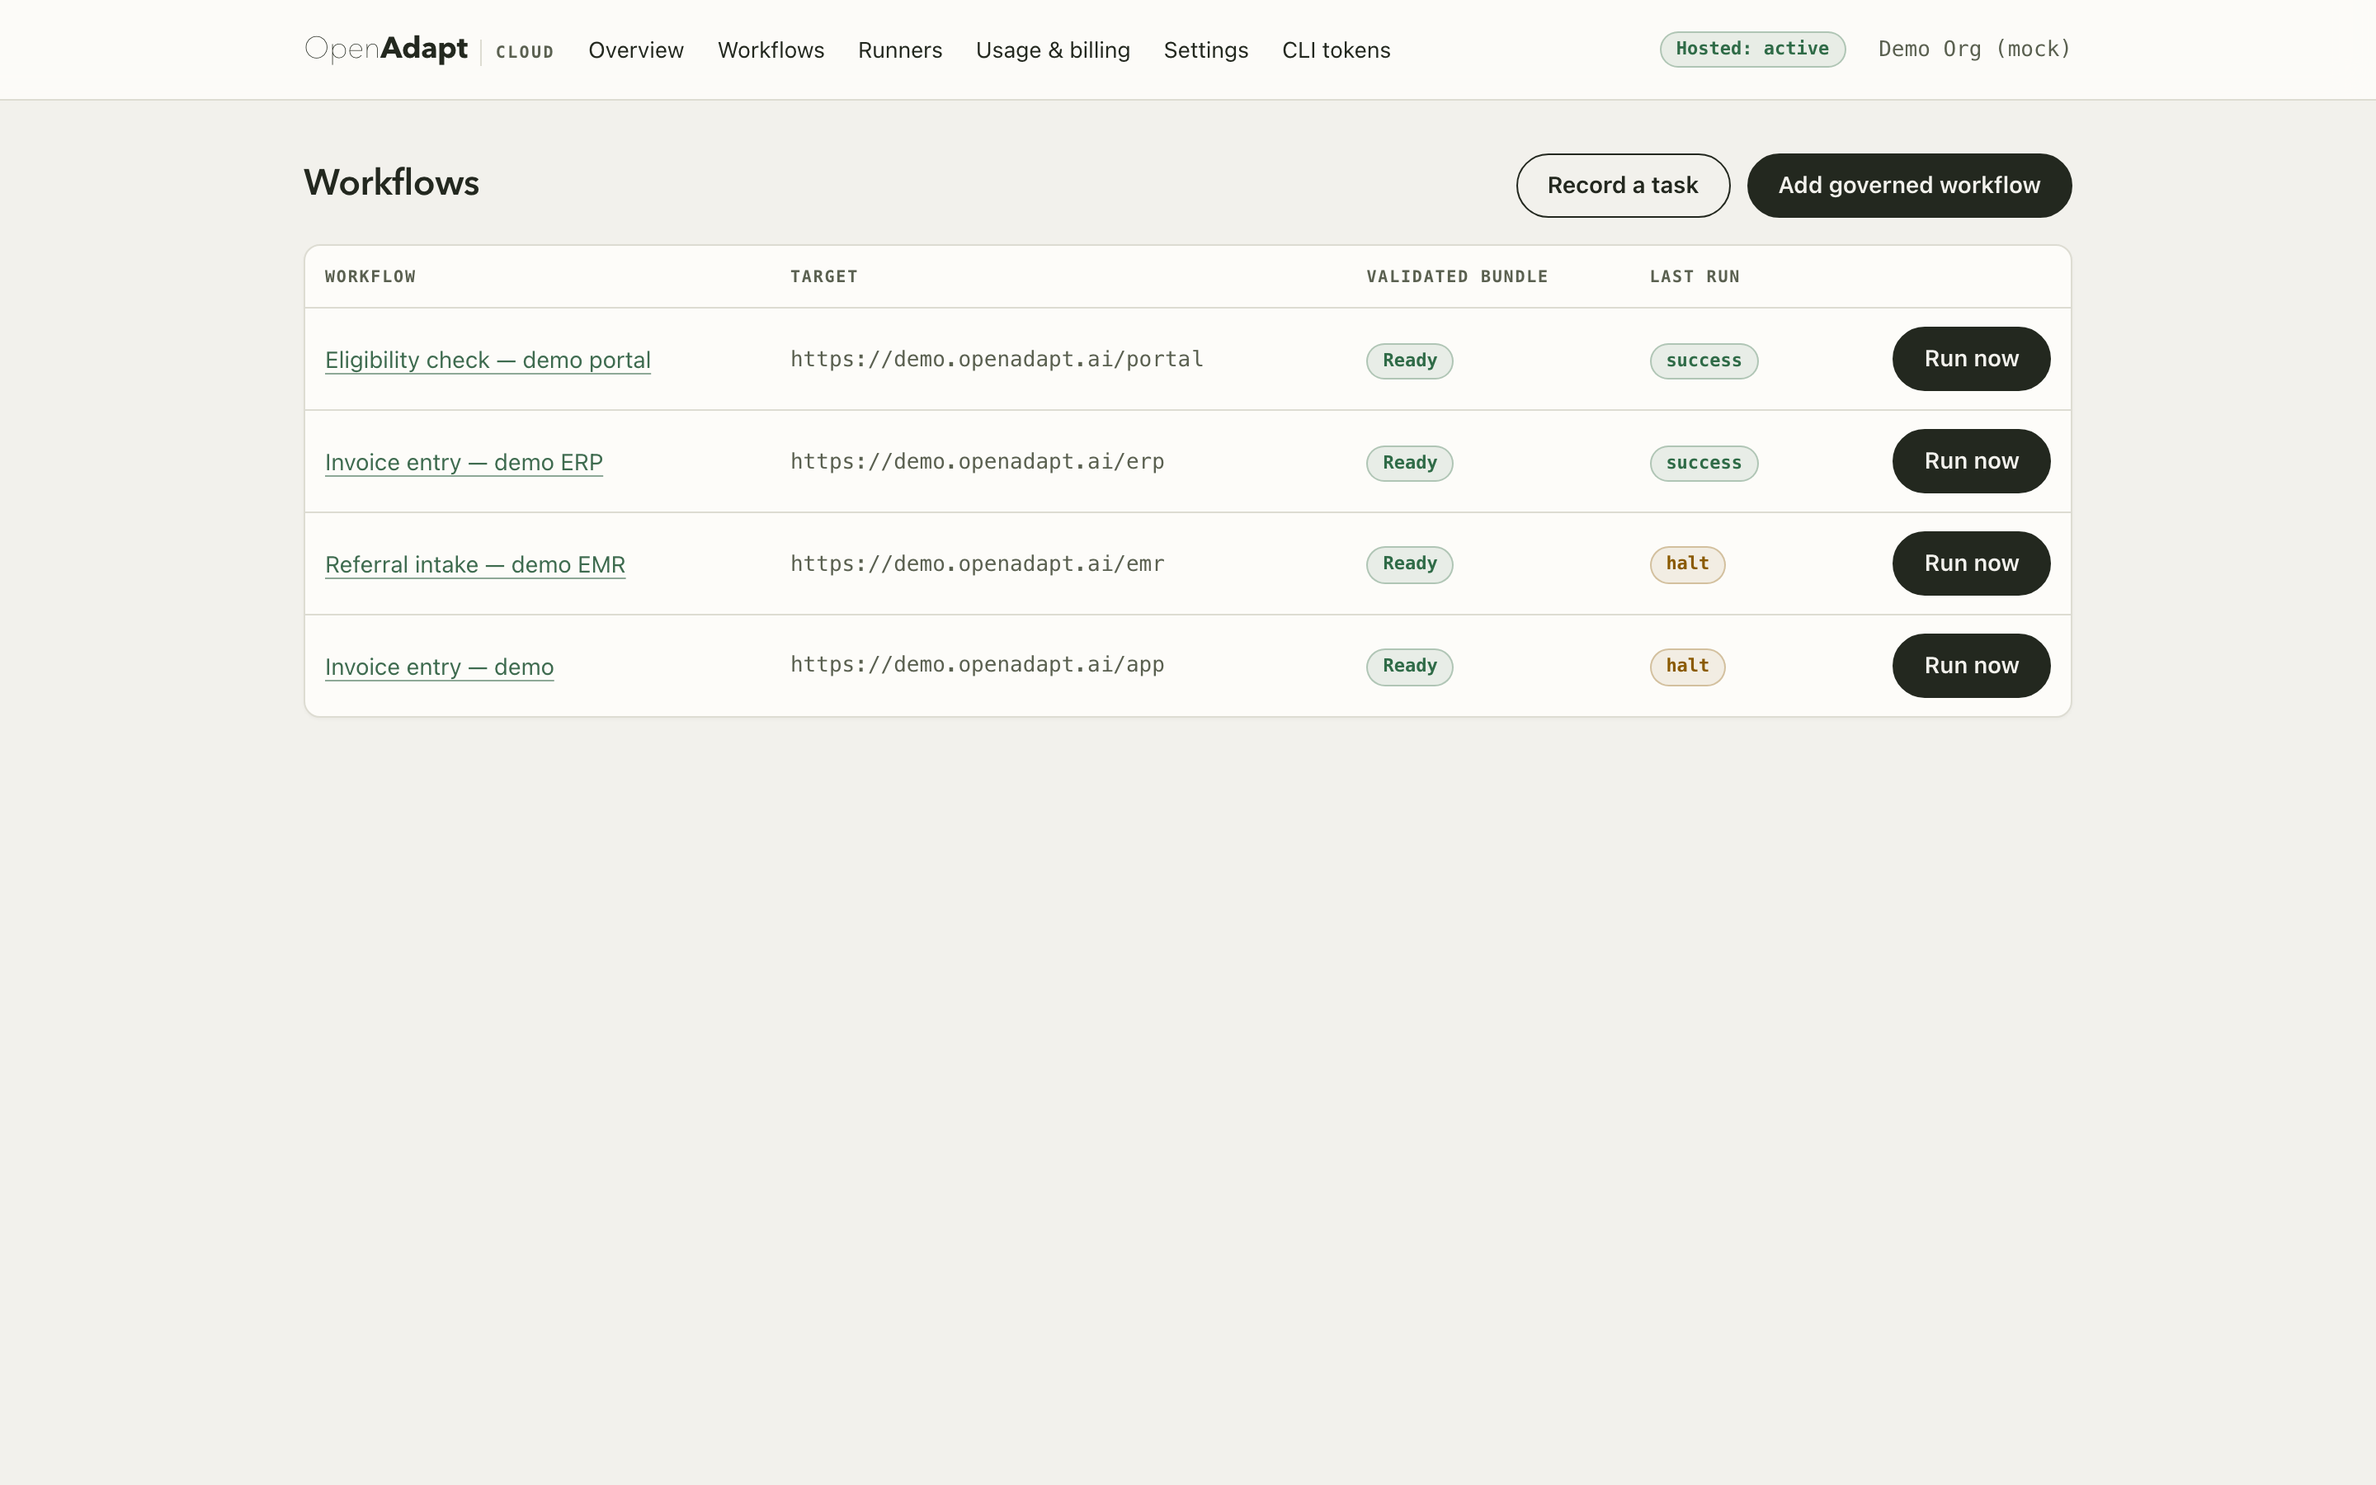
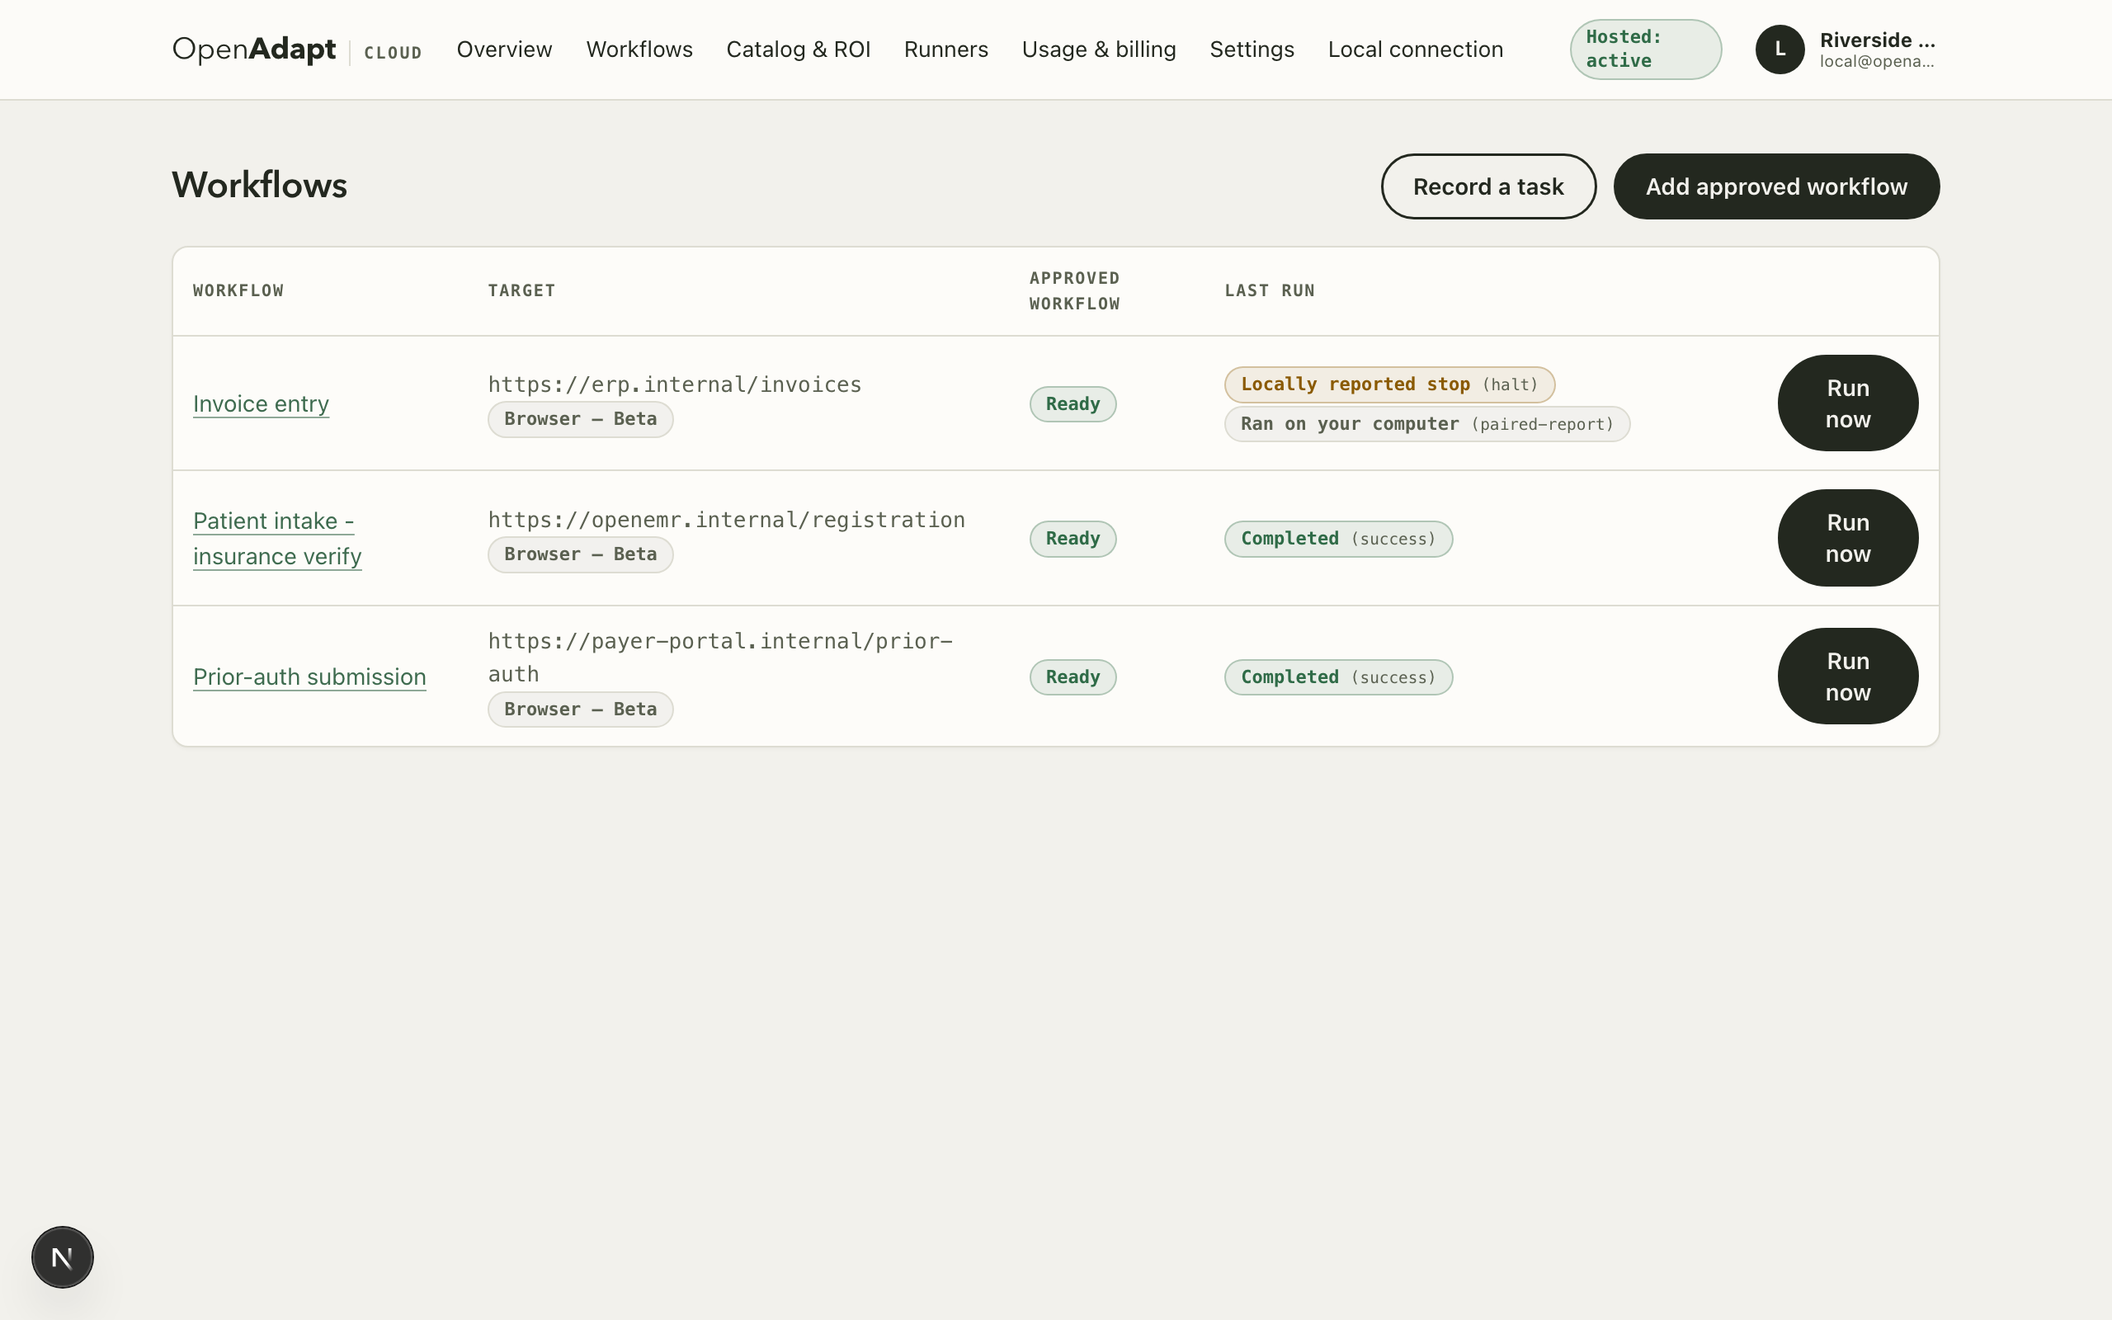
fix(cloud-showcase): consistent full-page captures with vertical auto-pan
Make the OpenAdapt Cloud showcase carousel read as one coherent product
across all five frames, and reveal the whole of each page rather than a
top crop.

- Recapture the program visualizer inside the same app shell (top nav +
  Hosted pill + workspace) as the other slides, at 2560px wide / device
  scale 2, so it no longer looks captured out-of-shell. Recapture the
  dashboard, run detail, halt evidence, and workflow catalog the same way
  so all five share one look and scale.
- Seed production-plausible workflow names (Invoice entry, Patient intake
  - insurance verify, Prior-auth submission) and suppress the LOCAL MOCK
  MODE developer banner in the marketing captures. No demo labels; the
  honest "Real OpenAdapt Cloud interface" caption stays.
- Add a slow top-to-bottom vertical auto-pan (Web Animations API) over
  each frame's dwell so the visitor sees the full page, pausing in
  lockstep with the rotation on hover/focus. Under prefers-reduced-motion
  the pan is dropped and the stage becomes a scroll viewport showing each
  frame at natural height. overflow-x stays clipped so wide captures never
  push the page sideways on mobile.
- Update provenance.json and MANIFEST.json to describe the full-page
  captures and the suppressed dev chrome, and update the guard test to the
  new dashboard dimensions.

Claude-Session: https://claude.ai/code/session_01NyCHrzA1psrKMFfroYbzaM

diff --git a/components/DashboardShowcase.js b/components/DashboardShowcase.js
@@ -1,28 +1,31 @@
-import { useEffect, useState } from 'react'
+import { useEffect, useRef, useState } from 'react'
 import styles from './DashboardShowcase.module.css'
 
 // Real screenshots of the shipping OpenAdapt Cloud product (openadapt-cloud),
 // captured from the actual dashboard UI. This is a rotating showcase: the large
 // slot cycles through the real product frames (dashboard, run detail, halt
 // evidence, program visualizer, workflow catalog) so each gets time on screen
-// big enough to read. Every frame is the real interface running in its local
-// mock-data mode with synthetic records (see /product-preview/MANIFEST.json and
-// /cloud-preview/provenance.json). Nothing here is a hand-drawn or synthetic
-// mockup of an app that does not exist.
+// big enough to read. Every frame is a full-height capture of the real
+// interface (see /product-preview/MANIFEST.json and /cloud-preview/provenance.json).
+// Nothing here is a hand-drawn or synthetic mockup of an app that does not exist.
+//
+// The captures are full pages, not top crops, and the large stage reveals each
+// one with a slow top-to-bottom vertical auto-pan over its dwell so the visitor
+// sees the WHOLE page rather than just the first screenful. Under reduced motion
+// the pan is dropped and the whole frame is shown at once (see the module CSS),
+// so nothing depends on movement to be legible.
 //
 // Order matters: the dashboard is first so it is the default (and SSR / no-JS)
 // frame, which is why the browser address bar reads app.openadapt.ai/dashboard
-// before any rotation. Aspect ratios differ a lot (the dashboard is wide, the
-// program graph and catalog are very tall), so each slide carries an explicit
-// object-position; the tall captures are top-anchored so their meaningful top
-// content renders big.
+// before any rotation. Every capture is 2560px wide at the same device scale, so
+// the five frames share one product look; their heights differ because each real
+// page is a different length.
 const SLIDES = [
     {
         key: 'dashboard',
         src: '/product-preview/dashboard-workflows.png',
-        width: 2880,
-        height: 1800,
-        focus: '50% 0%',
+        width: 2560,
+        height: 1600,
         address: 'app.openadapt.ai/dashboard',
         label: 'Dashboard',
         caption:
@@ -33,34 +36,29 @@ const SLIDES = [
         key: 'run',
         src: '/cloud-preview/healthcare-run.jpg',
         width: 2560,
-        height: 1600,
-        focus: '50% 0%',
+        height: 4620,
         address: 'app.openadapt.ai/runs',
         label: 'Run detail',
         caption:
             'Step timeline and independently verified effects for a completed run.',
-        alt: 'OpenAdapt Cloud run detail: step metrics and the timeline with verified effects for a completed synthetic OpenEMR run.',
+        alt: 'OpenAdapt Cloud run detail: run metrics, the verified-effect timeline, and the full machine-readable run report.',
     },
     {
         key: 'evidence',
         src: '/cloud-preview/healthcare-evidence.jpg',
         width: 2560,
-        height: 1600,
-        focus: '50% 0%',
+        height: 6594,
         address: 'app.openadapt.ai/runs/evidence',
         label: 'Halt evidence',
         caption:
             'The locally reported stop, resolver metrics, and the governed repair page.',
-        alt: 'OpenAdapt Cloud halt evidence: the locally reported stop, resolver metrics, and the governed repair page for a synthetic OpenEMR workflow.',
+        alt: 'OpenAdapt Cloud halt evidence: the locally reported stop, resolver metrics, and the governed repair page.',
     },
     {
         key: 'program',
         src: '/cloud-preview/program-graph.png',
-        width: 1800,
-        height: 5096,
-        // Tall full-page capture. Nudge past the empty grey app-chrome band at
-        // the very top so the compiled-program header and stats fill the frame.
-        focus: '50% 8%',
+        width: 2560,
+        height: 3882,
         address: 'app.openadapt.ai/workflows/program',
         label: 'Program visualizer',
         caption:
@@ -70,20 +68,20 @@ const SLIDES = [
     {
         key: 'catalog',
         src: '/cloud-preview/workflow-catalog.png',
-        width: 1280,
-        height: 2200,
-        // Tall full-page capture: top-anchored so the portfolio and ROI readout
-        // lead the frame.
-        focus: '50% 0%',
+        width: 2560,
+        height: 4290,
         address: 'app.openadapt.ai/workflows',
         label: 'Workflow catalog',
         caption:
-            'Approved workflows and their compiled bundle versions in one catalog.',
-        alt: 'OpenAdapt Cloud workflow catalog: approved workflows and their compiled bundle versions.',
+            'Approved workflows, their ROI readout, and a step-level halt map in one catalog.',
+        alt: 'OpenAdapt Cloud workflow catalog: approved workflows, their ROI readout, and a step-level halt map.',
     },
 ]
 
-const ROTATE_MS = 4600
+// One dwell per frame. The vertical auto-pan runs slightly shorter so it settles
+// at the bottom of the page before the rotation advances to the next frame.
+const ROTATE_MS = 6200
+const PAN_MS = 5600
 
 export default function DashboardShowcase() {
     const [active, setActive] = useState(0)
@@ -111,6 +109,71 @@ export default function DashboardShowcase() {
         setActive(index)
         setCycle((value) => value + 1)
     }
+
+    // Vertical auto-pan of the active full-height capture. The stage is a fixed
+    // aspect-ratio viewport; the capture is taller, so we translate it upward
+    // from its top edge to its bottom edge across the dwell (a slow downward
+    // reveal). We use the Web Animations API because the pan distance depends on
+    // the rendered image height, which is responsive and known only at runtime.
+    const slideRefs = useRef([])
+    const stageRef = useRef(null)
+    const panRef = useRef(null)
+    const pausedRef = useRef(paused)
+    pausedRef.current = paused
+
+    useEffect(() => {
+        const img = slideRefs.current[active]
+        const stage = stageRef.current
+        if (!img || !stage) return undefined
+        // Respect reduced motion: no auto-pan. The module CSS instead fits the
+        // whole capture into the stage so the entire page stays visible.
+        if (
+            typeof window !== 'undefined' &&
+            window.matchMedia &&
+            window.matchMedia('(prefers-reduced-motion: reduce)').matches
+        ) {
+            return undefined
+        }
+        let cancelled = false
+        const start = () => {
+            if (cancelled) return
+            const shift =
+                img.getBoundingClientRect().height -
+                stage.getBoundingClientRect().height
+            // Short captures (already fully visible) do not need a pan.
+            if (shift <= 4) return
+            const anim = img.animate(
+                [
+                    { transform: 'translateY(0)' },
+                    { transform: `translateY(${-shift}px)` },
+                ],
+                { duration: PAN_MS, easing: 'linear', fill: 'forwards' }
+            )
+            panRef.current = anim
+            if (pausedRef.current) anim.pause()
+        }
+        if (img.complete && img.naturalWidth) start()
+        else img.addEventListener('load', start, { once: true })
+        return () => {
+            cancelled = true
+            img.removeEventListener('load', start)
+            if (panRef.current) {
+                panRef.current.cancel()
+                panRef.current = null
+            }
+            img.style.transform = ''
+        }
+    }, [active, cycle])
+
+    // Pause and resume the pan in lockstep with the rotation timer (hover/focus)
+    // without restarting it, so a visitor reading a frame keeps their position.
+    useEffect(() => {
+        const anim = panRef.current
+        if (!anim) return undefined
+        if (paused) anim.pause()
+        else anim.play()
+        return undefined
+    }, [paused])
 
     const activeSlide = SLIDES[active]
 
@@ -158,14 +221,23 @@ export default function DashboardShowcase() {
                                 {activeSlide.address}
                             </span>
                         </div>
+                        {/* Fixed aspect-ratio viewport. Each full-height capture
+                            is taller than the viewport; the active one pans
+                            top-to-bottom over its dwell. Under reduced motion the
+                            viewport becomes scrollable and the capture is fit so
+                            the whole page is reachable without any movement. */}
                         <div
                             className={styles.stage}
                             id="cloud-stage"
                             data-testid="dashboard-stage"
+                            ref={stageRef}
                         >
                             {SLIDES.map((slide, index) => (
                                 <img
                                     key={slide.key}
+                                    ref={(node) => {
+                                        slideRefs.current[index] = node
+                                    }}
                                     className={styles.slide}
                                     src={slide.src}
                                     width={slide.width}
@@ -181,7 +253,6 @@ export default function DashboardShowcase() {
                                     }
                                     style={{
                                         opacity: index === active ? 1 : 0,
-                                        objectPosition: slide.focus,
                                     }}
                                 />
                             ))}
@@ -229,7 +300,6 @@ export default function DashboardShowcase() {
                                         loading="lazy"
                                         decoding="async"
                                         aria-hidden="true"
-                                        style={{ objectPosition: slide.focus }}
                                     />
                                     {index === active && (
                                         <span

diff --git a/components/DashboardShowcase.module.css b/components/DashboardShowcase.module.css
@@ -98,26 +98,29 @@
     white-space: nowrap;
 }
 
-/* Fixed-height stage: a single aspect-ratio slot that every slide fills, so
-   there is no layout jump between frames of different aspect ratios. Slides are
-   stacked and crossfaded. */
+/* Fixed aspect-ratio viewport. Every capture is a full-height page taller than
+   this slot; the active one is panned top-to-bottom over its dwell so the whole
+   page is revealed. Slides are stacked and crossfaded. overflow-x is always
+   clipped so a wide capture never pushes the page sideways on mobile. */
 .stage {
     position: relative;
     width: 100%;
     aspect-ratio: 16 / 9;
+    overflow: hidden;
     background: var(--ground);
 }
 
 .slide {
     position: absolute;
-    inset: 0;
+    top: 0;
+    left: 0;
     display: block;
     width: 100%;
-    height: 100%;
-    object-fit: cover;
-    /* object-position is set per slide inline (tall captures are top-anchored).
-       Default top so wide captures keep their nav and header in frame. */
-    object-position: top;
+    /* Natural height (the full page) so the auto-pan has somewhere to travel.
+       The active slide is translated upward in JS via the Web Animations API. */
+    height: auto;
+    transform-origin: top center;
+    will-change: transform;
     transition: opacity 700ms ease;
 }
 
@@ -343,11 +346,31 @@
     }
 }
 
-/* Respect reduced motion for the crossfade transition only. The rotation itself
-   is intentionally kept (see DashboardShowcase.js) so the section is never
-   static; here we simply make the frame swap instant rather than animated. */
+/* Respect reduced motion. The rotation itself is intentionally kept (see
+   DashboardShowcase.js) so the section is never static, but the crossfade is made
+   instant and the vertical auto-pan is dropped. So the visitor can still see the
+   WHOLE page of each frame without any movement, the stage becomes a normal
+   scroll viewport showing the active frame at its natural height: the active
+   capture is laid out in flow (so the stage scrolls exactly its height, with no
+   dead space) and the JS pan is suppressed by the same media query in the
+   component. */
 @media (prefers-reduced-motion: reduce) {
     .slide {
         transition-duration: 1ms;
+    }
+
+    .stage {
+        overflow-y: auto;
+        overflow-x: hidden;
+        -webkit-overflow-scrolling: touch;
+    }
+
+    .slide {
+        position: relative;
+        transform: none !important;
+    }
+
+    .slide:not([data-active='true']) {
+        display: none;
     }
 }

diff --git a/tests/dashboardShowcase.test.js b/tests/dashboardShowcase.test.js
@@ -185,9 +185,11 @@ test('every showcase screenshot is a real, provenance-backed Cloud capture', () 
         typeof manifest.assets['dashboard-workflows.png']?.sha256,
         'string'
     )
-    // Displayed large: the intrinsic capture is high-resolution.
-    assert.equal(manifest.assets['dashboard-workflows.png'].width, 2880)
-    assert.equal(manifest.assets['dashboard-workflows.png'].height, 1800)
+    // Displayed large: the intrinsic capture is high-resolution. It is a
+    // full-page capture at a 1280px viewport with device scale 2 (2560px wide),
+    // matching the other four frames so the five share one product look.
+    assert.equal(manifest.assets['dashboard-workflows.png'].width, 2560)
+    assert.equal(manifest.assets['dashboard-workflows.png'].height, 1600)
 
     // Supporting shots: real run/evidence frames plus the newly added program
     // visualizer and workflow catalog captures. Each must exist on disk.
